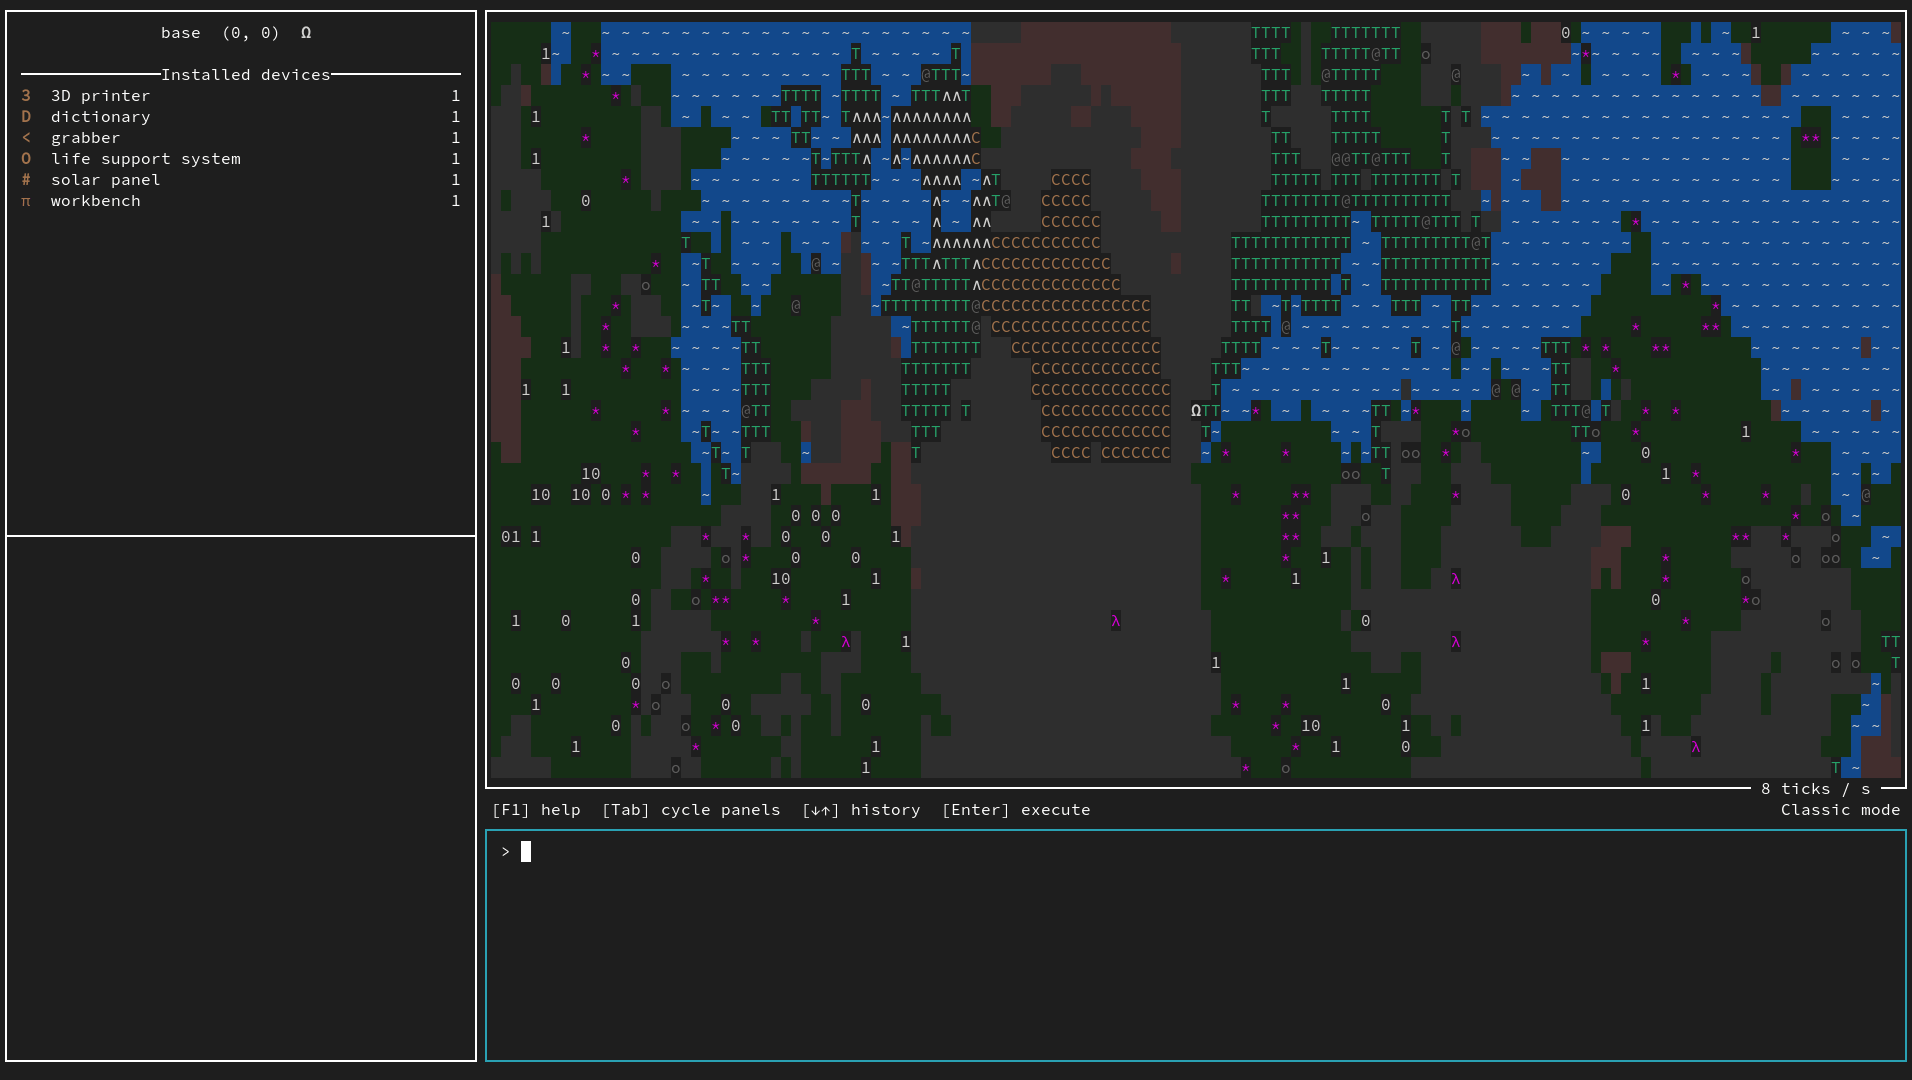
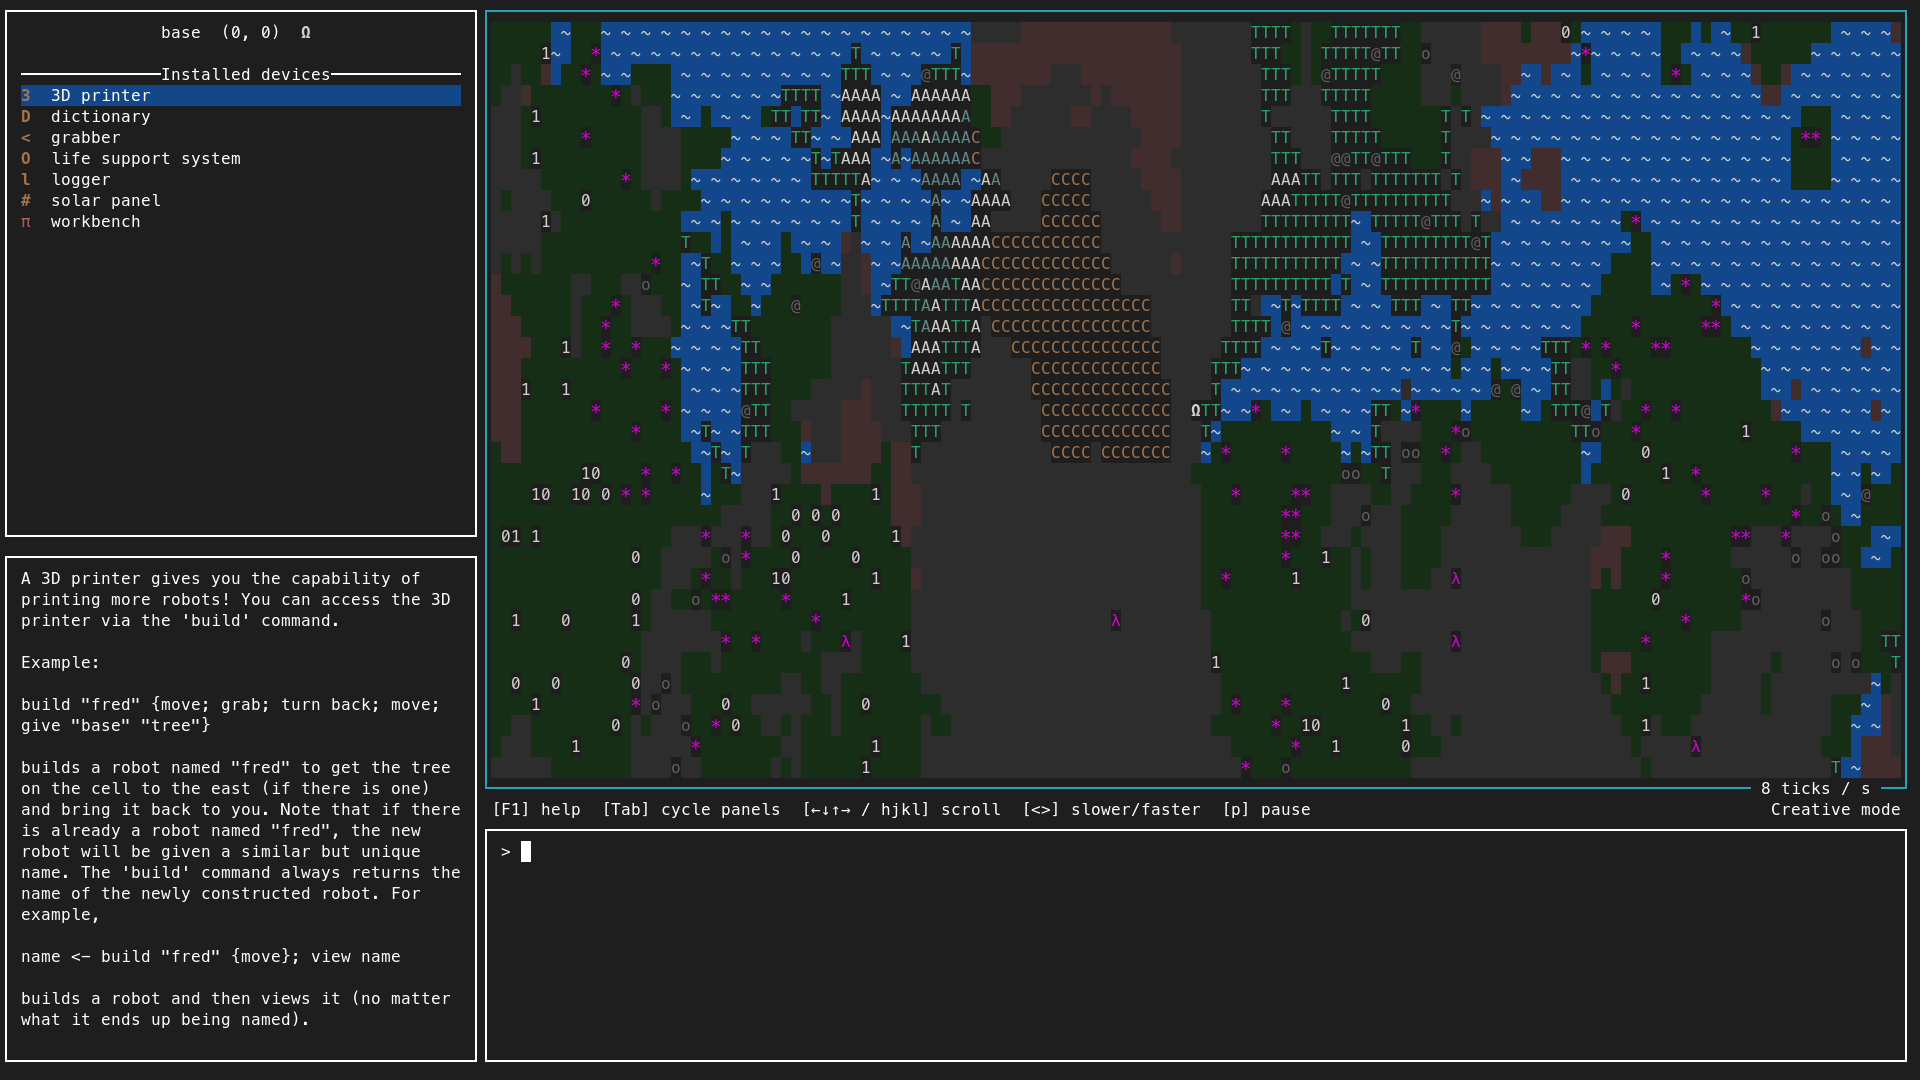
Apply suggestions from PR - ? and world16

diff --git a/TUTORIAL.md b/TUTORIAL.md
@@ -127,7 +127,7 @@ informative error message.
 
 ![Hi error](images/tutorial/hi.png)
 
-To get rid of the error dialog, just hit the `Esc` key.
+To get rid of the error dialog, just hit the <kbd>Esc</kbd> key.
 
 Something you can't do yet
 --------------------------
@@ -206,7 +206,7 @@ Then we can use the `view` command to focus on it instead of the base:
 ```
 r <- build "runner" { turn west; m4; m }; view r
 ```
-Note that `base` executes the `view name` command as soon as it
+Note that `base` executes the `view r` command as soon as it
 finishes executing the `build` command, which is about the same time
 as the newly built robot *starts* executing its program.  So we get to
 watch the new robot as it goes about its business.  Afterwards, the
@@ -231,7 +231,7 @@ which you may have noticed in `runner1`'s inventory.  You can `scan`
 items in the world to learn about them, and later `upload` what you
 have learned to the base.
 
-Let's build a robot to learn about those green `T` things to the west:
+Let's build a robot to learn about those green `?` things to the west:
 ```
 build "s" {turn west; m4; move; scan west; turn back; m4; upload "base"}
 ```
@@ -240,7 +240,7 @@ argument, which can be either an absolute direction
 (`north`, `south`, `east`, or `west`) or a relative direction
 (`forward`, `back`, `left`, `right`, or `down`).
 
-Notice that the robot did not actually need to walk on top of a `T` to
+Notice that the robot did not actually need to walk on top of a `?` to
 learn about it, since it could `scan west` to scan the cell one unit
 to the west (you can also `scan down` to scan an item directly underneath the
 robot).  Also, it was able to `upload` at a distance of one cell away from
@@ -341,7 +341,7 @@ or remember the name of the robot that crashed?  Fortunately, there is
 something else we can do: send out another robot to `salvage` the
 crashed robot.
 
-The `salvage` command can be executed by any robot with a `grabber`,
+The `salvage` command can be executed by any robot with a `plasma cutter`,
 which is one of the devices installed on new robots by default.  It
 takes no arguments, and simply looks for any idle robot in the same
 cell; if it finds one, it disassembles the idle robot, transferring
@@ -421,7 +421,9 @@ Creative mode.  In Classic mode, the kinds of actions your robots can
 do, and the kinds of programs they can interpret, is restricted by
 what devices they have installed.  In Creative mode you can do
 anything you like, including fabricate arbitrary items out of thin air
-using the `create` command.  To switch, highlight the world view
-panel, then hit the `m` key.
+using the `create` command. Also it will not hide unknown entities,
+as you can see in the World 16 above.
+
+To switch, highlight the world view panel, then hit the <kbd>M</kbd> key.
 
 Now go forth and build your swarm!
